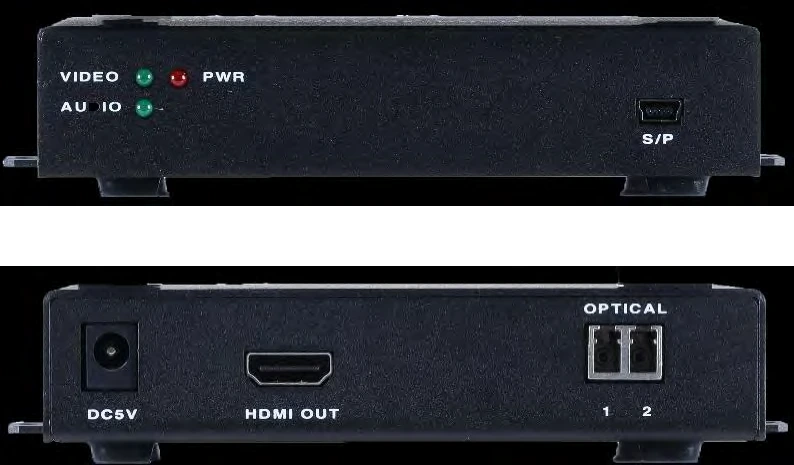
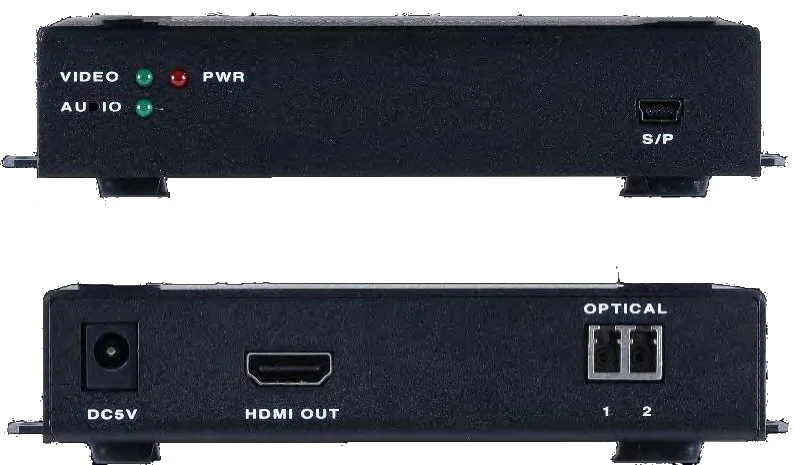
OBHD-2C 단자 지도 사진 3장 검은 배경을 흰색으로, 0.102.0
사진 가장자리에서 이어진 순수 검정(밝기 10 이하)만 흰색으로 채우고 1px 가장자리를
섞어 잔상을 없앰. 제품 몸체와 사진 크기는 그대로라 단자 지도 좌표 변동 없음.
CHANGELOG의 0.101.0 절 위치도 순서대로 옮김.

Claude-Session: https://claude.ai/code/session_01V3dms2CC6NHWtyRSKKrJnV

Changed region(s): [[0.0, 0.0, 1.0, 0.4516], [0.0, 0.572, 1.0, 1.0]]

diff --git a/index.html b/index.html
@@ -1,7 +1,7 @@
 <!doctype html>
 <html lang="ko"><head><meta charset="utf-8"><meta name="viewport" content="width=device-width,initial-scale=1"><title>RTCOM 매트릭스 구성기</title><meta name="description" content="RTCOM XDM, SPX, VDM 매트릭스 카드 슬롯 구성기와 알티컴 공개 제품정보"></head><body><div id="rtcom-design" aria-label="RTCOM 매트릭스 구성기">
   <link rel="stylesheet" href="src/styles.css">
-  <header class="rt-top"><a class="rt-brand-lockup" href="./"><span class="rt-brand-mark" aria-hidden="true">▦</span><span><span class="rt-brand">RT<span>COM</span> Matrix Configurator</span><span class="rt-brand-sub">XDM · SPX · VDM CARD SLOT DESIGN</span></span></a><nav class="rt-view-tabs" aria-label="화면 전환"><a data-view-tab="configurator" href="#matrix-configurator" aria-current="page">매트릭스 구성기</a><a data-view-tab="products" href="#products">알티컴 제품정보</a></nav><div class="rt-top-links"><a class="rt-portal-link" href="https://seoulav.github.io/AV-Portal/" target="_blank" rel="noopener">AV Portal에서 제품 찾기 <span aria-hidden="true">↗</span><span class="rt-visually-hidden">(새 창)</span></a><div class="rt-meta"><b>AV 시스템 설계 도구</b><br>CATALOG BASED · 0.101</div></div></header>
+  <header class="rt-top"><a class="rt-brand-lockup" href="./"><span class="rt-brand-mark" aria-hidden="true">▦</span><span><span class="rt-brand">RT<span>COM</span> Matrix Configurator</span><span class="rt-brand-sub">XDM · SPX · VDM CARD SLOT DESIGN</span></span></a><nav class="rt-view-tabs" aria-label="화면 전환"><a data-view-tab="configurator" href="#matrix-configurator" aria-current="page">매트릭스 구성기</a><a data-view-tab="products" href="#products">알티컴 제품정보</a></nav><div class="rt-top-links"><a class="rt-portal-link" href="https://seoulav.github.io/AV-Portal/" target="_blank" rel="noopener">AV Portal에서 제품 찾기 <span aria-hidden="true">↗</span><span class="rt-visually-hidden">(새 창)</span></a><div class="rt-meta"><b>AV 시스템 설계 도구</b><br>CATALOG BASED · 0.102</div></div></header>
   <section class="rt-configurator-view" aria-label="매트릭스 구성기">
     <div id="matrix-configurator" class="rt-configurator-anchor"><h1 class="rt-visually-hidden" tabindex="-1">매트릭스 구성기 — 프레임을 선택하고 실제 슬롯 위치에 입력·출력 카드를 장착해 구성합니다.</h1></div>
     <div class="rt-workspace"><div class="rt-tools"><button class="rt-button" data-tool="undo" disabled>↶ 실행 취소</button><button class="rt-button" data-tool="redo" disabled>↷ 다시 실행</button><button class="rt-button" data-tool="backup">JSON 백업</button><button class="rt-button" data-tool="import">불러오기</button><button class="rt-button" data-tool="reset">새 구성</button></div><p id="save-status" role="status" aria-live="polite">이 브라우저에 자동 저장됩니다.</p><input id="import-file" type="file" accept=".json,application/json" hidden></div><nav class="rt-nav" aria-label="구성 단계"></nav>

diff --git a/CLAUDE.md b/CLAUDE.md
@@ -50,7 +50,7 @@
 
 - 현재 화면 버전은 `index.html`의 우측 상단 표기와 `README.md`에 함께 기록합니다.
 - 원본 `main`에 기능 묶음을 병합할 때 마이너 버전을 올리고, 같은 커밋에서 `CHANGELOG.md`를 갱신합니다.
-- 구성기 단일 화면 전환은 `0.7.0`, Analog Way 방식 화면 개편은 `0.8.0`, 전송기 자동 연동은 `0.9.0`, HDMI 카드 PSE 쌍 연장은 `0.10.0`, SPX 매뉴얼 사진 슬롯은 `0.11.0`, VDM-256X 추가는 `0.12.0`, VDM 매뉴얼 후면 도면 슬롯은 `0.13.0`, 휴대폰 슬롯 겹침·뒤로가기 수정은 `0.14.0`, VDM 전면 도면은 `0.15.0`, 사진 슬롯 판넬 잘림 수정은 `0.16.0`, 장착 슬롯 번호표 숨김·구성 요약 카드 확대는 `0.17.0`, XDM 판넬 손나사 잘림 수정·VDM 전송기 연동·로고 홈 이동 확인은 `0.18.0`, 알티컴 공개 제품정보(29종) 재게시는 `0.19.0`, 제품정보 상세 표기를 에이앤미디어(antez.co.kr) 방식으로 정리한 것은 `0.20.0`, 데이터 기반 연결 다이어그램 추가는 `0.21.0`, 제품 사양 표를 구분·사양 2단으로 정리한 것은 `0.22.0`, 휴대폰 가로 스크롤(긴 출처 경로) 수정은 `0.23.0`, HD-14U·HD-18U 모델명 정정과 VDM CT102-U·FT102-U 계열 제외는 `0.24.0`, 제조사 카탈로그 원본 연결 다이어그램 적용은 `0.25.0`, 제품 사양 표 디자인(분류 색 점) 다듬기는 `0.26.0`, 새 카탈로그로 나머지 25종 재검증·XDM-CTR100 조합 다이어그램은 `0.27.0`, 연결 다이어그램 가로 스크롤 안내(그러데이션 표시)와 XDM-CTR100 케이블별 최대 전송거리(CI6522 80m) 추가는 `0.28.0`, VDM HOS4-U·HOS4S-UW 카드 설명을 스위칭 방식(일반·심리스)으로 정리하고 XDM-288을 구성기에서 삭제한 것은 `0.29.0`, XDM-CTR100 연결 다이어그램 조합 1을 매트릭스 카드 직결 배선으로 바로잡고 제조사 원본 다이어그램에 출처 캡션·표기 다름 경고를 추가하고 6개 제품과 SPX 다이어그램을 다시 잘라낸 것은 `0.30.0`, VDM 전송기 4종(CT101-U/CR101-U·CT103-U-H/CR103-U·FT101-U/FR101-U·FT103-U-H/FR103-U)에 RS-232 단자 행을 추가하고 이 4종과 CT104-U/CR104-U를 46쪽판과 재대조하고 27종 전체의 카탈로그 쪽 표기를 46쪽판 기준으로 통일한 것은 `0.31.0`, `docs/audit/PRODUCT_DIAGRAM_REVIEW_2026-09-27.md` §6 판단표대로 13개 제품의 검토 필요 항목을 정리해 REVIEW REQUIRED 배지를 없앤 것은 `0.32.0`, 제품정보 화면을 사용자 LED 구성기 계승 글래스 디자인으로 개편한 것(`docs/handoff/PRODUCT_GLASS_REDESIGN_SPEC.md` 6-A: 기반·HD-210U·XDM·VDM·SPX)은 `0.33.0`, 나머지 23종(분배기·일체형·전송기·케이블)에 lead·subtitle·portMap을 채우고 분배기·일체형 신호 흐름을 승인 시안 방식으로 바꾸고 QMS 화면 구성 모드(videoModes)를 추가한 것(6-B)은 `0.34.0`, HD-13U 상세에 전면 EDID 로터리 스위치 위치 표시와 EDID 코드표(edidSwitch, 사용자 제공 매뉴얼 근거)를 추가한 것은 `0.35.0`, HD-104U·HD-108U 모델명 표기를 0.24.0 정정 이전으로 되돌리고(사용자 확인 2026-09-27: 카탈로그 표기는 HD-104U·HD-108U이며 실크만 14U·18U로 변경 예정) HD-210U 전면 설정 스위치(딥 스위치·EDID 로터리) 추가와 신호 흐름 매트릭스 판정 복원을 함께 묶은 것은 `0.36.0`, 매트릭스 구성기 화면을 Analog Way 구조 + LED 글래스 스킨으로 개편하고 블랭크 커버(`placements`의 예약값 `"BLANK"`)로 슬롯 구성을 완성하는 기능을 추가한 것(`docs/handoff/CONFIGURATOR_AW_GLASS_SPEC.md`, 사용자 결정 2026-09-27)은 `0.37.0`, 0.37.0에서 시안과 다르게 남겨 둔 04 전송기 화면을 사용자 검토 후 좌우 분할 구조(01·02와 같은 틀)로 다시 지은 것(`docs/implementation/CONFIGURATOR_AW_GLASS.md` "04 전송기(편차 — 0.38.0에서 해소)")은 `0.38.0`, 제품 상세 "01 한눈에 보기" 위에 큰 사진 띠와 누르면 확대되는 돋보기(라이트박스)를 추가하고 화면에 보이는 제품 사양·주요 기능의 "up to" 표기를 "최대"로 통일하고 제품정보 "확인 사항" 118건을 2건으로 정리(HD-210U 크기 355mm 정정, `docs/audit/PRODUCT_ISSUES_ARCHIVE_2026-09-27.md`)한 것은 `0.39.0`, HD-13U "05 주요 기능"에 오디오 병합(믹스)·추출(디먹스) 동시 사용 안내(매뉴얼 7쪽 근거)를 추가한 것은 `0.40.0`, 분배기(HD-13U·HD-104U·HD-108U·HD-210U) EDID 로터리 코드표에서 자주 쓰는 1·7번을 강조하고 "02 신호 흐름"에 오디오 병합·추출(AUDIO OUT·"추출" 표시)을 추가한 것은 `0.41.0`, 사진 없이 입출력 표 카드로만 보이던 7종(HD-D102U·XDM-CTR100·전송기 5종)의 단자 지도를 HD-13U처럼 실제 제품 사진 기준으로 바꾸고 `portMap`이 송신기·수신기 사진 여러 장을 받게 한 것은 `0.42.0`, HDS-21U·HDS-42MU에 EDID 로터리(edidSwitch)를 추가하고 오디오 병합 설명을 "HDMI OUTPUT에 실리는 오디오" 기준으로 정정하고 분배기·선택기 필터를 HDMI 출력 개수 순으로 정렬하고 XDM-CTR100 "02 신호 흐름" 케이블 최대 전송거리 표기를 다이어그램 하단 한쪽으로 모은 것은 `0.43.0`, 분배기·선택기 필터 정렬을 분배기(Splitter)가 먼저 나오고 셀렉터(Switcher)가 나중에 나오도록(같은 종류 안에서는 HDMI 출력 개수 순) 바꾼 것은 `0.44.0`, 사용자 제공 매뉴얼 3권으로 벽부형 XDM-CT103·CT103-U-H/CR103-U·FT103-U-H/FR103-U의 단자 지도·사양·EDID 표를 보완하고 단자 지도에 세로 괄호·표시 폭·안내 줄을 추가한 것은 `0.45.0`, XDM-CTR100 PSE 제품 안내서와 XDM-CTR100 매뉴얼 Ver.1.4로 CTR100 단자 역할(HDMI IN·OUT, 5핀 오디오 출력, 상태 LED)·딥 스위치 설정·PSE 크기·전원을 보완한 것은 `0.46.0`, 옛 PR #22에만 있던 사용자 결정(XDM-CTR100과 XDM-CTR100 PSE를 별도 제품으로 분리해 28종, QMS-88UX 쿼드 뷰 출력 9·10번 사용법, 모델명 줄바꿈 방지)을 현재 main 기준으로 다시 옮기고 HD-13U 오디오 병합·추출을 선택 방식으로 정정해 07 오디오 설정 카드를 추가하고 모든 제품의 단자 지도 번호를 HDMI 입력 → 출력 → 오디오 → … → 전원(마지막) 순으로 통일한 것은 `0.47.0`, QMS-88UX 출력 9·10번 멀티뷰의 12가지 레이아웃·입력 그룹·출력 옵션을 사용자 제공 매뉴얼 20~23쪽 근거로 "주요 기능"에 적은 것은 `0.48.0`, HDS-21U·HDS-42MU 오디오 병합·추출을 딥 스위치 1번 선택 방식으로 정정하고 07 오디오 설정 카드를 추가하고 사용자 제공 매뉴얼 Ver.1.0으로 Priority·분배 기능 딥 스위치를 보완하고 제품 사진 팝업을 사용자 LED 계산기 "05 프로세서" 방식(사진 탭·원형 돋보기)으로 바꾼 것은 `0.49.0`, QMS-88UX "02 신호 흐름"에서 멀티뷰 출력 9·10번을 매트릭스 출력과 분리된 별도 갈래(패널·캡션)로 다시 그리고 "05 주요 기능" 멀티뷰 항목을 요약하고 오디오 출력 2개(QD1·QD2)가 선택 가능한 출력임을 반영한 것은 `0.50.0`, QMS-88UX "04 제품 사양"의 조건 칸(부설)을 모두 비우고 LAN(Telnet & Web Browser) 표기를 사양·기능·개요·단자 지도에서 모두 뺀 것은 `0.51.0`, HDS-42MU 크기를 사용자 결정에 따라 매뉴얼 값 232×65×30mm로 바꾸고 제품 상세의 "자료 출처·검토 기록"을 "제조사 자료"로 이름을 바꿔 화면의 출처 표시를 뺀 것은 `0.52.0`, QMS-88UX 오디오 QD1·QD2 설명 정리·"02 신호 흐름" 오디오 추출 점선과 멀티뷰 8입력분할 표현 정리·입출력 단자 표 정렬 통일(TX→구분 없음→RX, 영상→오디오→전송→제어, 입력→출력→양방향)·"제조사 자료"에서 표기 다름·참고 사항도 추가로 뺀 것과 조건 칸의 출처 문구를 지우고 "05 주요 기능"을 한 줄 요약으로 줄인 것(상세는 06·07 카드·사양·단자 지도로 이동)은 `0.53.0`, XDM-CTR100·CTR100 PSE "04 제품 사양"의 딥 스위치 행을 다시 삭제(딥 스위치는 05 주요 기능에서만 안내)하고 전 제품 "05 주요 기능"을 추가로 압축하고 매트릭스 COS/CIS/FIS/FOS 카드와 짝인 전송기 3종(XDM-CTR100·CTR100 PSE·FT101/FR101)에 RS-232+ 패스스루(AMX 등 통합 제어 신호를 매트릭스·전송기 너머로 전달) 안내를 추가하고 "02 신호 흐름"의 케이블 최대 전송거리 표기를 범례 "출력" 항목 오른쪽으로 옮긴 것은 `0.54.0`, 구성기 확인 창을 사이트 글래스 스타일 대화상자로 바꾸고 카드 팝업에 수량 채우기와 같은 방향 슬롯 이동(끌어 옮기기·팝업 이동)을 추가하고 XDM 세로 슬롯 카드를 180도 돌리고 2U 이상만 정면·후면 버튼(그보다 작으면 정면 사진과 포트 연결면을 함께 표시)으로 하고 구성기 작업 단계 표기를 한글로 바꾸고 Delete 키 카드 빼기와 XDM RS-232+(CIS·COS·FIS·FOS 카드와 짝 전송기) 표기를 더한 것은 `0.55.0`, 전 제품 "05 주요 기능" 카탈로그 어투 통일("~ 지원")·"01 한눈에 보기" 위 사진 띠 삭제·"02 신호 흐름"과 "03 단자 지도" 순서 교체 및 영문 표기(Signal Flow·Port Map)·화면 구성 모드 등 06 카드를 05 옆으로 배치·QMS-88UX 06 화면 구성 모드 레이아웃 12종 클릭 미리보기 추가·HDS-21U·HDS-42MU 단자 지도를 정면·후면 선택 버튼 없이 위아래 합성 사진 한 장(번호 1~7, EDID 로터리 6번·전원 7번)으로 바꾼 것은 `0.56.0`, 05 옆으로 옮긴 06 카드가 휴대폰에서 01보다 먼저 뜨던 순서 버그를 고치고(rt-pg-col-mobile-6 클래스 추가) 15개 제품 "05 주요 기능"의 "~할 수 있다." 표현 24곳을 명사형으로 정리한 것은 `0.57.0`, HDS-21U·HDS-42MU 단자 지도에 MODE 딥 스위치 번호(7번)를 추가하고 07 오디오 설정 카드를 딥 스위치 그림(번호별 OFF·ON) 카드인 07 딥 스위치 설정으로 바꾸고(1번 오디오 병합·추출, 2번 Priority, 42MU만 3번 분배) 04 제품 사양의 딥 스위치 행과 05 주요 기능의 긴 설명을 이 카드로 옮기고 매트릭스 제품(QMS-44UX·QMS-88UX·HDS-42MU) "03 Signal Flow"를 입력이 한 점으로 모이는 모양 대신 크로스포인트(출력마다 입력 선택 예시)로 다시 그리고 HDS-42MU 정면 사진의 잘못 인쇄된 실크(MODE·EDID)를 사진 안에서 서로 바꾼 것은 `0.58.0`, EDID 로터리 태그 잘림·06 EDID 카드 배치·긴 코드표 좌우 분할을 고치고 EDID 설정 카드에 기본값·자주 쓰는 코드를 파란 16단 로터리 그림(화살표가 코드를 가리킴)으로 보여주고 HDS-21U·HDS-42MU(3·9번)·FT103-U-H/FR103-U(3·6번)에 자주 쓰는 코드 강조를 더하고 EDID 코드표 세로 크기를 줄인 것은 `0.59.0`, 04 제품 사양 표 줄 간격을 약 15% 줄이고 03 Signal Flow에서 AUDIO OUT "추출" 표시가 잘리던 그림 너비 계산을 고친 것은 `0.60.0`, HD-13U 07 오디오 설정을 06 EDID 다음 전체 폭으로 옮겨 잘림·번호 뒤집힘을 고치고 EDID 대표 설정과 같은 칸 4개(MODE 로터리 0번 → SET 누름 → OUT 1 LED 깜빡임·깜빡이지 않음)를 넣고 HD-210U에 매뉴얼 Ver.1.2 근거 07 딥 스위치 설정 카드(1번 오디오 병합, 2번 DDC)를 추가한 것은 `0.61.0`, 딥 스위치 카드가 있는 HD-210U·HDS-21U·HDS-42MU의 05 주요 기능에서 스위치 번호 참조를 지우고 HD-210U(5줄)·HD-13U(3줄) 05 주요 기능을 기능 이름만 남겨 정리하고 HDS-21U·HDS-42MU 딥 스위치 칸을 ON → OFF 순서로 바꾼 것은 `0.62.0`, QMS-44UX·QMS-88UX "06 화면 구성 모드" 카드가 05 옆 좁은 칸에 들어가면서 모드 카드 설명·레이아웃 칩이 카드 밖으로 넘치던 문제를 edidSwitch와 같은 기준(항상 전체 폭 아래)으로 고친 것은 `0.63.0`, SPX-TX/RX 전송기를 29번째 제품으로 추가(매뉴얼 Ver.2.0: 사양·단자 지도·딥 스위치 조합)하고 XDM-FT101/FR101에 매뉴얼 Ver.1.3 근거 EDID·오디오 로터리 카드(전체 8칸 그림)를 넣고 SPX 안내·범례의 HDBaseT 표기를 CATx로 바로잡고 OBUX-1C에 매뉴얼 Ver.2.2 근거 Tx Mode 딥 스위치 카드(1번 오디오, 2·3·4번 EDID 조합)를 넣고 전 제품 05 주요 기능의 "~한다/~다." 문장을 "~ 지원"·명사형으로 통일한 것은 `0.64.0`, OBHD-2C에 매뉴얼 KV01 근거 06 EDID 설정(MODE 로터리 0~D 전체 14칸 그림·코드표)을 추가하고 XDM-CT103/CR103 04 제품 사양의 전원(어댑터) 중복 행(CT103·CR103 각각 있던 동일 값)을 공통 행 하나로 합친 것은 `0.65.0`, XDM-CTR100·XDM-CTR100 PSE에 매뉴얼 Ver.1.4 근거 06 딥 스위치 설정(1·2번 TX/RX 모드 조합, 3번 전송 거리)을 추가하고 두 제품이 별도 페이지로 나뉜 뒤에도 남아 있던 04 제품 사양의 "공통"·자기 모델명 반복 표기를 정리하고 04 사양 "지원 케이블"을 "권장 케이블"로 바꾸고 분배기 4종(HD-13U·HD-104U·HD-108U·HD-210U) 단자 지도를 앞면·뒷면 합성 사진 한 장으로 바꿔 정면 로터리(·SET·MODE)에도 번호를 붙인 것은 `0.66.0`, QMS-88UX 06 화면 구성 모드 QUAD 레이아웃 목록에 매뉴얼 22~23쪽 Output Option 2·3 근거로 "8분할(비율무시)"을 13번째 항목으로 추가하고 분배기 4종(HD-13U·HD-104U·HD-108U·HD-210U) 05 주요 기능에 다단 증폭(캐스케이드 연결) 최대 3단 지원을 추가한 것은 `0.67.0`, XDM-FT101/FR101 단자 지도에 정면 MODE 로터리·S/P 번호를 추가하고 HD-D102U 05 주요 기능을 명사형으로 전면 재작성하고 HDS-21U·HDS-42MU "Audio Extraction"과 HD-210U EDID "Nothing" 표기를 통일하고 HDS-21U 딥 스위치 3번(분배)이 매뉴얼에 없는 기능이었음을 사용자 제공 매뉴얼로 확인해 삭제한 것은 `0.68.0`, HDS-21U·HDS-42MU 06 EDID 설정 안내 문장에서 "10번=A, 11번=B"처럼 10진수를 다시 설명하던 괄호를 완전히 지운 것은 `0.69.0`, 구성기 "섀시"를 "프레임"으로 통일하고 카드 팝업에 수량·순서대로 장착 버튼을 넣고 02 프레임 선택에 "함께 보면 좋은 제품"을 추가하고 빈 슬롯 공패널색을 통일하고 OBHD-2C EDID 로터리 번호를 매뉴얼 Ver.2.1 기준으로 정정하고 HD-D102U "스마트 EDID" 문구를 알기 쉽게 풀어 쓰고 HD-13U·XDM-CTR100 PSE "인증: KC 인증" 행을 삭제하고 HD-D102U 04 사양표를 HD-13U와 같은 구성으로 정리한 것은 `0.70.0`, OBHD-2C 04 제품 사양의 크기·무게·HDMI 규격을 사용자 결정에 따라 매뉴얼 Ver.2.1 값(128×89×25mm·0.36kg·HDMI 1.3)으로 바꾼 것은 `0.71.0`, OBHD-2C·OBUX-1C 04 제품 사양의 입력단자·출력단자(HDMI(female) 등 표기) 행을 삭제하고 전 제품(16종)의 mm/kg 옆 인치·lbs 병기를 지운 것은 `0.72.0`, XDM-PSU 전원 장치를 반영해 BOM의 임시 "전원 공급 장비"를 XDM-PSU(16칸당 1대)·XDM-POH(CTR100 Tx 1대당 1개)·XDM-PHX(COS100 1장당 1개)로 나누고 XDM-PSU를 30번째 제품으로 추가하고, HDS-21U·OBUX-1C 송신기·수신기 고해상도 실물 사진을 반영하고, CT103-U-H/CR103-U 04 제품 사양을 요약 형태로 정리한 것은 `0.73.0`, QMS-44UX 전면·후면 사진을 사용자가 직접 촬영한 고화질 사진으로 바꾸고 03 단자 지도 좌표를 재보정하고 새 사진에서 확인된 DOWNLOAD(Mini-USB) 포트를 추가한 것은 `0.74.0`, HD-108U 전면·후면 사진을 제조사에서 입수한 고화질 사진으로 바꾸고 03 단자 지도와 06 EDID 설정 로터리 스위치 좌표를 재보정한 것은 `0.75.0`, HDS-42MU 전면·후면 사진을 고화질로 바꾸고 단자 지도·EDID 좌표를 재보정한 것은 `0.76.0`, HD-13U·SPX-M810 전면·후면 사진을 고해상도로 바꾸고 HD-13U 단자 지도·EDID 좌표와 SPX-M810 구성기 카드 슬롯 좌표를 재측정한 것은 `0.77.0`, 사용자가 제공한 HD-104U 고해상도 전면·후면 사진(긴 변 약 2000px)으로 기존 저해상도 이미지를 교체하고 단자 지도·EDID 로터리 스위치 좌표를 새 사진 기준으로 다시 측정한 것은 `0.78.0`, 제품 상세에 등록된 제조사 카탈로그·매뉴얼 PDF만 "제품 목록" 옆 버튼(새 탭 보기·내려받기)으로 보여 주는 구조를 추가한 것은 `0.79.0`, 매트릭스 카드 상세 정보 버튼과 XDM·SPX·VDM 카드 26종 사양을 등록한 것은 `0.80.0`, 로컬 작업 환경(`DEVICE_WORKFLOW.md`, `.gitattributes`, `.claude/settings.json`)과 `input_doc` 자료 자동 분류(`.claude/skills/input-doc`, `scripts/input_doc.py`)를 추가한 것은 `0.81.0`, 제조사 자료 입출력 단자 표에서 방향("입력"·"출력"·"입출력")·수량(숫자) 칸이 좁은 화면에서 줄바꿈되던 문제를 30개 제품 전수 조사로 찾아 고친 것은 `0.82.0`, 제목에 송신기·수신기가 들어간 제품 10종의 라벨을 색으로 구분한 것은 `0.83.0`, input_doc 첫 정리(매뉴얼 20권·사양서 1장)로 VDM HOS4-U 카드 사양을 등록하고 CIS4-U·COS4-U·QOS4S-U를 매뉴얼 KV07 값으로 보완하고 input_doc 반영 장부(`docs/evidence/input-doc-ledger.json`)와 파일별 반영 표시(`input_doc/STATUS.md`)를 추가하고 검증된 PR의 병합·배포를 Claude가 이어서 하도록 규칙을 바꾼 것은 `0.84.0`, 카탈로그·매뉴얼 충돌 정리(`docs/audit/CATALOG_MANUAL_CONFLICTS_2026-09-28.md`) 결정대로 VDM -U 카드에 매뉴얼 해상도 행·SOS4 오디오 포트를 더하고 QMS-88UX 멀티뷰에 8분할(16:9 비율)을 추가한 것은 `0.85.0`, 카탈로그·매뉴얼 충돌 항목을 사용자 결정("새로준 자료 기준으로")에 따라 매뉴얼 값으로 통일한 것(HD-104U 전원 1A, XDM 전송기 3840x2160, VDM 광 카드 10km·-U 카드 4096×2160·HOS4S-UW 1920×1080)은 `0.86.0`, RT컴 제공 고해상도 실물 사진으로 XDM-CTR100·XDM-FT101·XDM-FR101·XDM-CT103 제품 사진·목록 카드·구성기 04 전송기 썸네일을 교체하고 CTR100·FT101·CT103 단자 지도를 새 사진으로 다시 합성하고 XDM-FR101 수신기 뒷면 단자 지도를 추가한 것은 `0.87.0`, 사용자 결정("1번")으로 input_doc 매뉴얼 17개를 공개 폴더에 올려 16개 제품 상세에 매뉴얼 PDF 버튼을 켠 것은 `0.88.0`, 사용자 확인("ctr100과 pse는 단자는 동일해")에 따라 XDM-CTR100·XDM-CTR100 PSE 단자 지도를 같은 합성 사진(앞면 PSE 제품 안내서 사진 + 뒷면 RT컴 CTR100 사진)으로 바꾼 것은 `0.89.0`, QMS-88UX 06 화면 구성 모드의 DUAL 카드("듀얼 모드" 한 마디뿐)를 매뉴얼 KV.04 20~21쪽 근거로 출력 9·10번 멀티뷰 설정의 2분할(PBP)·PIP 레이아웃 3종으로 채운 것은 `0.90.0`, XDM-CTR100 PSE 정면 사진을 사용자가 재확인("1번 맞아"·"적용시켜줘")한 원본 PNG에서 정확한 픽셀 경계로 다시 잘라 646×396으로 다시 저장한 것은 `0.91.0`, SPX-TX/SPX-RX 단자 지도 사진의 검은 배경을 흰색으로 바꾸고(사용자 요청) 전송기 6개 제품 사양의 ft(피트) 표기를 일괄 삭제한 것은 `0.92.0`, 전송기 9종 04 제품 사양 조건 칸의 "모델A·모델B 공통" 표기 55곳을 일괄 삭제하고 XDM-PSU에 "03 Signal Flow"(POH 입력 경로·PHX 출력 경로, 주황 전원 선) 그림을 추가한 것은 `0.93.0`, XDM-CTR100·XDM-CTR100 PSE 04 제품 사양의 최대 전송거리 3행을 1행으로 합치고 권장 케이블 행을 지우고 PSE 목록 썸네일을 정면 사진으로 바꾼 것은 `0.94.0`, 전체 카탈로그 46쪽판을 공용 파일(`rtcom-catalog-2026.pdf`) 하나로 공개해 29개 제품 상세의 카탈로그 PDF 버튼이 제품 쪽(`#page=N`)에서 열리고 제품 목록에 전체 카탈로그 버튼을 둔 것(사용자 결정 2026-09-28 "전체 카탈로그 공개해도 돼")은 `0.95.0`, QMS-88UX 06 화면 구성 모드의 QUAD·DUAL 설명 문장을 짧게 줄이고 매뉴얼 쪽 번호를 화면에 안 보이는 `page` 항목으로 옮기고 QMS-44UX QUAD 설명도 두 줄로 나눠 줄인 것(사용자 요청 "QMS-44, 88 모두 글이 너무 많아 좀 더 요약해줘")은 `0.96.0`, 전체 카탈로그 46쪽판에서 제품마다 해당 쪽만 뽑은 제품별 카탈로그 PDF 29개(`<제품id>-catalog.pdf`, XDM은 전송기 쪽을 뺀 4~9쪽, SPX-TX/RX는 16쪽)를 만들어 제품 상세 카탈로그 버튼에 연결한 것(사용자 결정 2026-09-28 "제품별로 잘라 공개")은 `0.97.0`, XDM-PSU "03 Signal Flow"를 제조사 연결도처럼 매트릭스 프레임(CIS100·COS100)·XDM-PSU(POH·PHX)·XDM-CTR100 Tx/Rx 장비 그림으로 다시 그리고 케이블을 따라 신호·전원이 흐르는 애니메이션을 넣은 것(사용자 요청 2026-09-28)은 `0.98.0`, 그 그림의 XDM-COS100을 포트마다 RJ45+피닉스 5핀으로 고쳐 PHX 2핀 전원선이 1번 포트 피닉스 단자에 꽂히게 하고(사용자 확인 "COS PHNIX픽에 전원연결") XDM-PSU Signal Flow에만 "크게 보기" 확대 창(100~300%)을 넣은 것은 `0.99.0`, QMS-88UX "8분할(16:9 비율)" 미리보기가 매뉴얼(KV.04 23쪽)처럼 위·아래 여백을 짙은 막대로 보여주게 고친 것(사용자 지적 "8분할시 비율유지는 안되는거 같은")은 `0.100.0`으로 기록했습니다. 다음 기능 묶음은 `0.101.0`을 목표로 하며, 실제 병합 전에는 검증된 canonical main commit을 확인합니다.
+- 구성기 단일 화면 전환은 `0.7.0`, Analog Way 방식 화면 개편은 `0.8.0`, 전송기 자동 연동은 `0.9.0`, HDMI 카드 PSE 쌍 연장은 `0.10.0`, SPX 매뉴얼 사진 슬롯은 `0.11.0`, VDM-256X 추가는 `0.12.0`, VDM 매뉴얼 후면 도면 슬롯은 `0.13.0`, 휴대폰 슬롯 겹침·뒤로가기 수정은 `0.14.0`, VDM 전면 도면은 `0.15.0`, 사진 슬롯 판넬 잘림 수정은 `0.16.0`, 장착 슬롯 번호표 숨김·구성 요약 카드 확대는 `0.17.0`, XDM 판넬 손나사 잘림 수정·VDM 전송기 연동·로고 홈 이동 확인은 `0.18.0`, 알티컴 공개 제품정보(29종) 재게시는 `0.19.0`, 제품정보 상세 표기를 에이앤미디어(antez.co.kr) 방식으로 정리한 것은 `0.20.0`, 데이터 기반 연결 다이어그램 추가는 `0.21.0`, 제품 사양 표를 구분·사양 2단으로 정리한 것은 `0.22.0`, 휴대폰 가로 스크롤(긴 출처 경로) 수정은 `0.23.0`, HD-14U·HD-18U 모델명 정정과 VDM CT102-U·FT102-U 계열 제외는 `0.24.0`, 제조사 카탈로그 원본 연결 다이어그램 적용은 `0.25.0`, 제품 사양 표 디자인(분류 색 점) 다듬기는 `0.26.0`, 새 카탈로그로 나머지 25종 재검증·XDM-CTR100 조합 다이어그램은 `0.27.0`, 연결 다이어그램 가로 스크롤 안내(그러데이션 표시)와 XDM-CTR100 케이블별 최대 전송거리(CI6522 80m) 추가는 `0.28.0`, VDM HOS4-U·HOS4S-UW 카드 설명을 스위칭 방식(일반·심리스)으로 정리하고 XDM-288을 구성기에서 삭제한 것은 `0.29.0`, XDM-CTR100 연결 다이어그램 조합 1을 매트릭스 카드 직결 배선으로 바로잡고 제조사 원본 다이어그램에 출처 캡션·표기 다름 경고를 추가하고 6개 제품과 SPX 다이어그램을 다시 잘라낸 것은 `0.30.0`, VDM 전송기 4종(CT101-U/CR101-U·CT103-U-H/CR103-U·FT101-U/FR101-U·FT103-U-H/FR103-U)에 RS-232 단자 행을 추가하고 이 4종과 CT104-U/CR104-U를 46쪽판과 재대조하고 27종 전체의 카탈로그 쪽 표기를 46쪽판 기준으로 통일한 것은 `0.31.0`, `docs/audit/PRODUCT_DIAGRAM_REVIEW_2026-09-27.md` §6 판단표대로 13개 제품의 검토 필요 항목을 정리해 REVIEW REQUIRED 배지를 없앤 것은 `0.32.0`, 제품정보 화면을 사용자 LED 구성기 계승 글래스 디자인으로 개편한 것(`docs/handoff/PRODUCT_GLASS_REDESIGN_SPEC.md` 6-A: 기반·HD-210U·XDM·VDM·SPX)은 `0.33.0`, 나머지 23종(분배기·일체형·전송기·케이블)에 lead·subtitle·portMap을 채우고 분배기·일체형 신호 흐름을 승인 시안 방식으로 바꾸고 QMS 화면 구성 모드(videoModes)를 추가한 것(6-B)은 `0.34.0`, HD-13U 상세에 전면 EDID 로터리 스위치 위치 표시와 EDID 코드표(edidSwitch, 사용자 제공 매뉴얼 근거)를 추가한 것은 `0.35.0`, HD-104U·HD-108U 모델명 표기를 0.24.0 정정 이전으로 되돌리고(사용자 확인 2026-09-27: 카탈로그 표기는 HD-104U·HD-108U이며 실크만 14U·18U로 변경 예정) HD-210U 전면 설정 스위치(딥 스위치·EDID 로터리) 추가와 신호 흐름 매트릭스 판정 복원을 함께 묶은 것은 `0.36.0`, 매트릭스 구성기 화면을 Analog Way 구조 + LED 글래스 스킨으로 개편하고 블랭크 커버(`placements`의 예약값 `"BLANK"`)로 슬롯 구성을 완성하는 기능을 추가한 것(`docs/handoff/CONFIGURATOR_AW_GLASS_SPEC.md`, 사용자 결정 2026-09-27)은 `0.37.0`, 0.37.0에서 시안과 다르게 남겨 둔 04 전송기 화면을 사용자 검토 후 좌우 분할 구조(01·02와 같은 틀)로 다시 지은 것(`docs/implementation/CONFIGURATOR_AW_GLASS.md` "04 전송기(편차 — 0.38.0에서 해소)")은 `0.38.0`, 제품 상세 "01 한눈에 보기" 위에 큰 사진 띠와 누르면 확대되는 돋보기(라이트박스)를 추가하고 화면에 보이는 제품 사양·주요 기능의 "up to" 표기를 "최대"로 통일하고 제품정보 "확인 사항" 118건을 2건으로 정리(HD-210U 크기 355mm 정정, `docs/audit/PRODUCT_ISSUES_ARCHIVE_2026-09-27.md`)한 것은 `0.39.0`, HD-13U "05 주요 기능"에 오디오 병합(믹스)·추출(디먹스) 동시 사용 안내(매뉴얼 7쪽 근거)를 추가한 것은 `0.40.0`, 분배기(HD-13U·HD-104U·HD-108U·HD-210U) EDID 로터리 코드표에서 자주 쓰는 1·7번을 강조하고 "02 신호 흐름"에 오디오 병합·추출(AUDIO OUT·"추출" 표시)을 추가한 것은 `0.41.0`, 사진 없이 입출력 표 카드로만 보이던 7종(HD-D102U·XDM-CTR100·전송기 5종)의 단자 지도를 HD-13U처럼 실제 제품 사진 기준으로 바꾸고 `portMap`이 송신기·수신기 사진 여러 장을 받게 한 것은 `0.42.0`, HDS-21U·HDS-42MU에 EDID 로터리(edidSwitch)를 추가하고 오디오 병합 설명을 "HDMI OUTPUT에 실리는 오디오" 기준으로 정정하고 분배기·선택기 필터를 HDMI 출력 개수 순으로 정렬하고 XDM-CTR100 "02 신호 흐름" 케이블 최대 전송거리 표기를 다이어그램 하단 한쪽으로 모은 것은 `0.43.0`, 분배기·선택기 필터 정렬을 분배기(Splitter)가 먼저 나오고 셀렉터(Switcher)가 나중에 나오도록(같은 종류 안에서는 HDMI 출력 개수 순) 바꾼 것은 `0.44.0`, 사용자 제공 매뉴얼 3권으로 벽부형 XDM-CT103·CT103-U-H/CR103-U·FT103-U-H/FR103-U의 단자 지도·사양·EDID 표를 보완하고 단자 지도에 세로 괄호·표시 폭·안내 줄을 추가한 것은 `0.45.0`, XDM-CTR100 PSE 제품 안내서와 XDM-CTR100 매뉴얼 Ver.1.4로 CTR100 단자 역할(HDMI IN·OUT, 5핀 오디오 출력, 상태 LED)·딥 스위치 설정·PSE 크기·전원을 보완한 것은 `0.46.0`, 옛 PR #22에만 있던 사용자 결정(XDM-CTR100과 XDM-CTR100 PSE를 별도 제품으로 분리해 28종, QMS-88UX 쿼드 뷰 출력 9·10번 사용법, 모델명 줄바꿈 방지)을 현재 main 기준으로 다시 옮기고 HD-13U 오디오 병합·추출을 선택 방식으로 정정해 07 오디오 설정 카드를 추가하고 모든 제품의 단자 지도 번호를 HDMI 입력 → 출력 → 오디오 → … → 전원(마지막) 순으로 통일한 것은 `0.47.0`, QMS-88UX 출력 9·10번 멀티뷰의 12가지 레이아웃·입력 그룹·출력 옵션을 사용자 제공 매뉴얼 20~23쪽 근거로 "주요 기능"에 적은 것은 `0.48.0`, HDS-21U·HDS-42MU 오디오 병합·추출을 딥 스위치 1번 선택 방식으로 정정하고 07 오디오 설정 카드를 추가하고 사용자 제공 매뉴얼 Ver.1.0으로 Priority·분배 기능 딥 스위치를 보완하고 제품 사진 팝업을 사용자 LED 계산기 "05 프로세서" 방식(사진 탭·원형 돋보기)으로 바꾼 것은 `0.49.0`, QMS-88UX "02 신호 흐름"에서 멀티뷰 출력 9·10번을 매트릭스 출력과 분리된 별도 갈래(패널·캡션)로 다시 그리고 "05 주요 기능" 멀티뷰 항목을 요약하고 오디오 출력 2개(QD1·QD2)가 선택 가능한 출력임을 반영한 것은 `0.50.0`, QMS-88UX "04 제품 사양"의 조건 칸(부설)을 모두 비우고 LAN(Telnet & Web Browser) 표기를 사양·기능·개요·단자 지도에서 모두 뺀 것은 `0.51.0`, HDS-42MU 크기를 사용자 결정에 따라 매뉴얼 값 232×65×30mm로 바꾸고 제품 상세의 "자료 출처·검토 기록"을 "제조사 자료"로 이름을 바꿔 화면의 출처 표시를 뺀 것은 `0.52.0`, QMS-88UX 오디오 QD1·QD2 설명 정리·"02 신호 흐름" 오디오 추출 점선과 멀티뷰 8입력분할 표현 정리·입출력 단자 표 정렬 통일(TX→구분 없음→RX, 영상→오디오→전송→제어, 입력→출력→양방향)·"제조사 자료"에서 표기 다름·참고 사항도 추가로 뺀 것과 조건 칸의 출처 문구를 지우고 "05 주요 기능"을 한 줄 요약으로 줄인 것(상세는 06·07 카드·사양·단자 지도로 이동)은 `0.53.0`, XDM-CTR100·CTR100 PSE "04 제품 사양"의 딥 스위치 행을 다시 삭제(딥 스위치는 05 주요 기능에서만 안내)하고 전 제품 "05 주요 기능"을 추가로 압축하고 매트릭스 COS/CIS/FIS/FOS 카드와 짝인 전송기 3종(XDM-CTR100·CTR100 PSE·FT101/FR101)에 RS-232+ 패스스루(AMX 등 통합 제어 신호를 매트릭스·전송기 너머로 전달) 안내를 추가하고 "02 신호 흐름"의 케이블 최대 전송거리 표기를 범례 "출력" 항목 오른쪽으로 옮긴 것은 `0.54.0`, 구성기 확인 창을 사이트 글래스 스타일 대화상자로 바꾸고 카드 팝업에 수량 채우기와 같은 방향 슬롯 이동(끌어 옮기기·팝업 이동)을 추가하고 XDM 세로 슬롯 카드를 180도 돌리고 2U 이상만 정면·후면 버튼(그보다 작으면 정면 사진과 포트 연결면을 함께 표시)으로 하고 구성기 작업 단계 표기를 한글로 바꾸고 Delete 키 카드 빼기와 XDM RS-232+(CIS·COS·FIS·FOS 카드와 짝 전송기) 표기를 더한 것은 `0.55.0`, 전 제품 "05 주요 기능" 카탈로그 어투 통일("~ 지원")·"01 한눈에 보기" 위 사진 띠 삭제·"02 신호 흐름"과 "03 단자 지도" 순서 교체 및 영문 표기(Signal Flow·Port Map)·화면 구성 모드 등 06 카드를 05 옆으로 배치·QMS-88UX 06 화면 구성 모드 레이아웃 12종 클릭 미리보기 추가·HDS-21U·HDS-42MU 단자 지도를 정면·후면 선택 버튼 없이 위아래 합성 사진 한 장(번호 1~7, EDID 로터리 6번·전원 7번)으로 바꾼 것은 `0.56.0`, 05 옆으로 옮긴 06 카드가 휴대폰에서 01보다 먼저 뜨던 순서 버그를 고치고(rt-pg-col-mobile-6 클래스 추가) 15개 제품 "05 주요 기능"의 "~할 수 있다." 표현 24곳을 명사형으로 정리한 것은 `0.57.0`, HDS-21U·HDS-42MU 단자 지도에 MODE 딥 스위치 번호(7번)를 추가하고 07 오디오 설정 카드를 딥 스위치 그림(번호별 OFF·ON) 카드인 07 딥 스위치 설정으로 바꾸고(1번 오디오 병합·추출, 2번 Priority, 42MU만 3번 분배) 04 제품 사양의 딥 스위치 행과 05 주요 기능의 긴 설명을 이 카드로 옮기고 매트릭스 제품(QMS-44UX·QMS-88UX·HDS-42MU) "03 Signal Flow"를 입력이 한 점으로 모이는 모양 대신 크로스포인트(출력마다 입력 선택 예시)로 다시 그리고 HDS-42MU 정면 사진의 잘못 인쇄된 실크(MODE·EDID)를 사진 안에서 서로 바꾼 것은 `0.58.0`, EDID 로터리 태그 잘림·06 EDID 카드 배치·긴 코드표 좌우 분할을 고치고 EDID 설정 카드에 기본값·자주 쓰는 코드를 파란 16단 로터리 그림(화살표가 코드를 가리킴)으로 보여주고 HDS-21U·HDS-42MU(3·9번)·FT103-U-H/FR103-U(3·6번)에 자주 쓰는 코드 강조를 더하고 EDID 코드표 세로 크기를 줄인 것은 `0.59.0`, 04 제품 사양 표 줄 간격을 약 15% 줄이고 03 Signal Flow에서 AUDIO OUT "추출" 표시가 잘리던 그림 너비 계산을 고친 것은 `0.60.0`, HD-13U 07 오디오 설정을 06 EDID 다음 전체 폭으로 옮겨 잘림·번호 뒤집힘을 고치고 EDID 대표 설정과 같은 칸 4개(MODE 로터리 0번 → SET 누름 → OUT 1 LED 깜빡임·깜빡이지 않음)를 넣고 HD-210U에 매뉴얼 Ver.1.2 근거 07 딥 스위치 설정 카드(1번 오디오 병합, 2번 DDC)를 추가한 것은 `0.61.0`, 딥 스위치 카드가 있는 HD-210U·HDS-21U·HDS-42MU의 05 주요 기능에서 스위치 번호 참조를 지우고 HD-210U(5줄)·HD-13U(3줄) 05 주요 기능을 기능 이름만 남겨 정리하고 HDS-21U·HDS-42MU 딥 스위치 칸을 ON → OFF 순서로 바꾼 것은 `0.62.0`, QMS-44UX·QMS-88UX "06 화면 구성 모드" 카드가 05 옆 좁은 칸에 들어가면서 모드 카드 설명·레이아웃 칩이 카드 밖으로 넘치던 문제를 edidSwitch와 같은 기준(항상 전체 폭 아래)으로 고친 것은 `0.63.0`, SPX-TX/RX 전송기를 29번째 제품으로 추가(매뉴얼 Ver.2.0: 사양·단자 지도·딥 스위치 조합)하고 XDM-FT101/FR101에 매뉴얼 Ver.1.3 근거 EDID·오디오 로터리 카드(전체 8칸 그림)를 넣고 SPX 안내·범례의 HDBaseT 표기를 CATx로 바로잡고 OBUX-1C에 매뉴얼 Ver.2.2 근거 Tx Mode 딥 스위치 카드(1번 오디오, 2·3·4번 EDID 조합)를 넣고 전 제품 05 주요 기능의 "~한다/~다." 문장을 "~ 지원"·명사형으로 통일한 것은 `0.64.0`, OBHD-2C에 매뉴얼 KV01 근거 06 EDID 설정(MODE 로터리 0~D 전체 14칸 그림·코드표)을 추가하고 XDM-CT103/CR103 04 제품 사양의 전원(어댑터) 중복 행(CT103·CR103 각각 있던 동일 값)을 공통 행 하나로 합친 것은 `0.65.0`, XDM-CTR100·XDM-CTR100 PSE에 매뉴얼 Ver.1.4 근거 06 딥 스위치 설정(1·2번 TX/RX 모드 조합, 3번 전송 거리)을 추가하고 두 제품이 별도 페이지로 나뉜 뒤에도 남아 있던 04 제품 사양의 "공통"·자기 모델명 반복 표기를 정리하고 04 사양 "지원 케이블"을 "권장 케이블"로 바꾸고 분배기 4종(HD-13U·HD-104U·HD-108U·HD-210U) 단자 지도를 앞면·뒷면 합성 사진 한 장으로 바꿔 정면 로터리(·SET·MODE)에도 번호를 붙인 것은 `0.66.0`, QMS-88UX 06 화면 구성 모드 QUAD 레이아웃 목록에 매뉴얼 22~23쪽 Output Option 2·3 근거로 "8분할(비율무시)"을 13번째 항목으로 추가하고 분배기 4종(HD-13U·HD-104U·HD-108U·HD-210U) 05 주요 기능에 다단 증폭(캐스케이드 연결) 최대 3단 지원을 추가한 것은 `0.67.0`, XDM-FT101/FR101 단자 지도에 정면 MODE 로터리·S/P 번호를 추가하고 HD-D102U 05 주요 기능을 명사형으로 전면 재작성하고 HDS-21U·HDS-42MU "Audio Extraction"과 HD-210U EDID "Nothing" 표기를 통일하고 HDS-21U 딥 스위치 3번(분배)이 매뉴얼에 없는 기능이었음을 사용자 제공 매뉴얼로 확인해 삭제한 것은 `0.68.0`, HDS-21U·HDS-42MU 06 EDID 설정 안내 문장에서 "10번=A, 11번=B"처럼 10진수를 다시 설명하던 괄호를 완전히 지운 것은 `0.69.0`, 구성기 "섀시"를 "프레임"으로 통일하고 카드 팝업에 수량·순서대로 장착 버튼을 넣고 02 프레임 선택에 "함께 보면 좋은 제품"을 추가하고 빈 슬롯 공패널색을 통일하고 OBHD-2C EDID 로터리 번호를 매뉴얼 Ver.2.1 기준으로 정정하고 HD-D102U "스마트 EDID" 문구를 알기 쉽게 풀어 쓰고 HD-13U·XDM-CTR100 PSE "인증: KC 인증" 행을 삭제하고 HD-D102U 04 사양표를 HD-13U와 같은 구성으로 정리한 것은 `0.70.0`, OBHD-2C 04 제품 사양의 크기·무게·HDMI 규격을 사용자 결정에 따라 매뉴얼 Ver.2.1 값(128×89×25mm·0.36kg·HDMI 1.3)으로 바꾼 것은 `0.71.0`, OBHD-2C·OBUX-1C 04 제품 사양의 입력단자·출력단자(HDMI(female) 등 표기) 행을 삭제하고 전 제품(16종)의 mm/kg 옆 인치·lbs 병기를 지운 것은 `0.72.0`, XDM-PSU 전원 장치를 반영해 BOM의 임시 "전원 공급 장비"를 XDM-PSU(16칸당 1대)·XDM-POH(CTR100 Tx 1대당 1개)·XDM-PHX(COS100 1장당 1개)로 나누고 XDM-PSU를 30번째 제품으로 추가하고, HDS-21U·OBUX-1C 송신기·수신기 고해상도 실물 사진을 반영하고, CT103-U-H/CR103-U 04 제품 사양을 요약 형태로 정리한 것은 `0.73.0`, QMS-44UX 전면·후면 사진을 사용자가 직접 촬영한 고화질 사진으로 바꾸고 03 단자 지도 좌표를 재보정하고 새 사진에서 확인된 DOWNLOAD(Mini-USB) 포트를 추가한 것은 `0.74.0`, HD-108U 전면·후면 사진을 제조사에서 입수한 고화질 사진으로 바꾸고 03 단자 지도와 06 EDID 설정 로터리 스위치 좌표를 재보정한 것은 `0.75.0`, HDS-42MU 전면·후면 사진을 고화질로 바꾸고 단자 지도·EDID 좌표를 재보정한 것은 `0.76.0`, HD-13U·SPX-M810 전면·후면 사진을 고해상도로 바꾸고 HD-13U 단자 지도·EDID 좌표와 SPX-M810 구성기 카드 슬롯 좌표를 재측정한 것은 `0.77.0`, 사용자가 제공한 HD-104U 고해상도 전면·후면 사진(긴 변 약 2000px)으로 기존 저해상도 이미지를 교체하고 단자 지도·EDID 로터리 스위치 좌표를 새 사진 기준으로 다시 측정한 것은 `0.78.0`, 제품 상세에 등록된 제조사 카탈로그·매뉴얼 PDF만 "제품 목록" 옆 버튼(새 탭 보기·내려받기)으로 보여 주는 구조를 추가한 것은 `0.79.0`, 매트릭스 카드 상세 정보 버튼과 XDM·SPX·VDM 카드 26종 사양을 등록한 것은 `0.80.0`, 로컬 작업 환경(`DEVICE_WORKFLOW.md`, `.gitattributes`, `.claude/settings.json`)과 `input_doc` 자료 자동 분류(`.claude/skills/input-doc`, `scripts/input_doc.py`)를 추가한 것은 `0.81.0`, 제조사 자료 입출력 단자 표에서 방향("입력"·"출력"·"입출력")·수량(숫자) 칸이 좁은 화면에서 줄바꿈되던 문제를 30개 제품 전수 조사로 찾아 고친 것은 `0.82.0`, 제목에 송신기·수신기가 들어간 제품 10종의 라벨을 색으로 구분한 것은 `0.83.0`, input_doc 첫 정리(매뉴얼 20권·사양서 1장)로 VDM HOS4-U 카드 사양을 등록하고 CIS4-U·COS4-U·QOS4S-U를 매뉴얼 KV07 값으로 보완하고 input_doc 반영 장부(`docs/evidence/input-doc-ledger.json`)와 파일별 반영 표시(`input_doc/STATUS.md`)를 추가하고 검증된 PR의 병합·배포를 Claude가 이어서 하도록 규칙을 바꾼 것은 `0.84.0`, 카탈로그·매뉴얼 충돌 정리(`docs/audit/CATALOG_MANUAL_CONFLICTS_2026-09-28.md`) 결정대로 VDM -U 카드에 매뉴얼 해상도 행·SOS4 오디오 포트를 더하고 QMS-88UX 멀티뷰에 8분할(16:9 비율)을 추가한 것은 `0.85.0`, 카탈로그·매뉴얼 충돌 항목을 사용자 결정("새로준 자료 기준으로")에 따라 매뉴얼 값으로 통일한 것(HD-104U 전원 1A, XDM 전송기 3840x2160, VDM 광 카드 10km·-U 카드 4096×2160·HOS4S-UW 1920×1080)은 `0.86.0`, RT컴 제공 고해상도 실물 사진으로 XDM-CTR100·XDM-FT101·XDM-FR101·XDM-CT103 제품 사진·목록 카드·구성기 04 전송기 썸네일을 교체하고 CTR100·FT101·CT103 단자 지도를 새 사진으로 다시 합성하고 XDM-FR101 수신기 뒷면 단자 지도를 추가한 것은 `0.87.0`, 사용자 결정("1번")으로 input_doc 매뉴얼 17개를 공개 폴더에 올려 16개 제품 상세에 매뉴얼 PDF 버튼을 켠 것은 `0.88.0`, 사용자 확인("ctr100과 pse는 단자는 동일해")에 따라 XDM-CTR100·XDM-CTR100 PSE 단자 지도를 같은 합성 사진(앞면 PSE 제품 안내서 사진 + 뒷면 RT컴 CTR100 사진)으로 바꾼 것은 `0.89.0`, QMS-88UX 06 화면 구성 모드의 DUAL 카드("듀얼 모드" 한 마디뿐)를 매뉴얼 KV.04 20~21쪽 근거로 출력 9·10번 멀티뷰 설정의 2분할(PBP)·PIP 레이아웃 3종으로 채운 것은 `0.90.0`, XDM-CTR100 PSE 정면 사진을 사용자가 재확인("1번 맞아"·"적용시켜줘")한 원본 PNG에서 정확한 픽셀 경계로 다시 잘라 646×396으로 다시 저장한 것은 `0.91.0`, SPX-TX/SPX-RX 단자 지도 사진의 검은 배경을 흰색으로 바꾸고(사용자 요청) 전송기 6개 제품 사양의 ft(피트) 표기를 일괄 삭제한 것은 `0.92.0`, 전송기 9종 04 제품 사양 조건 칸의 "모델A·모델B 공통" 표기 55곳을 일괄 삭제하고 XDM-PSU에 "03 Signal Flow"(POH 입력 경로·PHX 출력 경로, 주황 전원 선) 그림을 추가한 것은 `0.93.0`, XDM-CTR100·XDM-CTR100 PSE 04 제품 사양의 최대 전송거리 3행을 1행으로 합치고 권장 케이블 행을 지우고 PSE 목록 썸네일을 정면 사진으로 바꾼 것은 `0.94.0`, 전체 카탈로그 46쪽판을 공용 파일(`rtcom-catalog-2026.pdf`) 하나로 공개해 29개 제품 상세의 카탈로그 PDF 버튼이 제품 쪽(`#page=N`)에서 열리고 제품 목록에 전체 카탈로그 버튼을 둔 것(사용자 결정 2026-09-28 "전체 카탈로그 공개해도 돼")은 `0.95.0`, QMS-88UX 06 화면 구성 모드의 QUAD·DUAL 설명 문장을 짧게 줄이고 매뉴얼 쪽 번호를 화면에 안 보이는 `page` 항목으로 옮기고 QMS-44UX QUAD 설명도 두 줄로 나눠 줄인 것(사용자 요청 "QMS-44, 88 모두 글이 너무 많아 좀 더 요약해줘")은 `0.96.0`, 전체 카탈로그 46쪽판에서 제품마다 해당 쪽만 뽑은 제품별 카탈로그 PDF 29개(`<제품id>-catalog.pdf`, XDM은 전송기 쪽을 뺀 4~9쪽, SPX-TX/RX는 16쪽)를 만들어 제품 상세 카탈로그 버튼에 연결한 것(사용자 결정 2026-09-28 "제품별로 잘라 공개")은 `0.97.0`, XDM-PSU "03 Signal Flow"를 제조사 연결도처럼 매트릭스 프레임(CIS100·COS100)·XDM-PSU(POH·PHX)·XDM-CTR100 Tx/Rx 장비 그림으로 다시 그리고 케이블을 따라 신호·전원이 흐르는 애니메이션을 넣은 것(사용자 요청 2026-09-28)은 `0.98.0`, 그 그림의 XDM-COS100을 포트마다 RJ45+피닉스 5핀으로 고쳐 PHX 2핀 전원선이 1번 포트 피닉스 단자에 꽂히게 하고(사용자 확인 "COS PHNIX픽에 전원연결") XDM-PSU Signal Flow에만 "크게 보기" 확대 창(100~300%)을 넣은 것은 `0.99.0`, QMS-88UX "8분할(16:9 비율)" 미리보기가 매뉴얼(KV.04 23쪽)처럼 위·아래 여백을 짙은 막대로 보여주게 고친 것(사용자 지적 "8분할시 비율유지는 안되는거 같은")은 `0.100.0`, 구성기 카드 팝업 "카드별 수량" 스테퍼가 다 채운 뒤 사라지던 버그를 고친 것은 `0.101.0`, OBHD-2C 단자 지도 사진 3장의 검은 배경을 흰색으로 바꾼 것(사용자 요청 2026-09-28 "OBHD-2C 이미지 너가 블랙을 뺄수 있을까?")은 `0.102.0`으로 기록했습니다. 다음 기능 묶음은 `0.103.0`을 목표로 하며, 실제 병합 전에는 검증된 canonical main commit을 확인합니다.
 - 모든 작업은 구현 문서, QA 문서 또는 감사 문서에 근거와 결과를 남깁니다.
 
 ## 로컬 작업과 input_doc

diff --git a/CHANGELOG.md b/CHANGELOG.md
@@ -20,6 +20,14 @@
 
 - **0.90.0 배포 기록**: `docs/qa/DEPLOYMENT_0.90_2026-09-28.md`(PR #85 → main 병합, 배포 run 64, 공개 파일 242/242 일치, 비공개 파일 6개 404)
 
+## 0.102.0
+
+- **OBHD-2C 단자 지도 사진 검은 배경 제거**(사용자 요청 2026-09-28 "OBHD-2C 이미지 너가 블랙을 뺄수 있을까?"): 송신기 앞면(`obhd-2c-tx-front.webp`)과 송신기·수신기 앞면/뒷면 합성 사진(`obhd-2c-tx-front-rear.webp`·`obhd-2c-rx-front-rear.webp`)의 검은 배경을 흰색으로 바꿨습니다. 사진 가장자리에서 이어진 순수 검정(밝기 10 이하)만 채우고, 붙은 1px 가장자리는 밝기에 따라 흰색과 섞어 검은 테두리 잔상을 없앴습니다. 제품 몸체(밝기 20 이상)는 그대로이고 사진 크기가 같아 단자 지도 번호 위치는 바뀌지 않습니다. 원본 매뉴얼 사진에 있던 실크 글자 결손(수신기 "AU▯IO", 송신기 "PW▯R"·"E▯I▯")은 이번 작업과 무관하게 원래 사진에 있습니다. 근거: `docs/qa/OBHD2C_WHITE_BG_QA_2026-09-28.md`.
+
+## 0.101.0
+
+- **카드 팝업 "카드별 수량" UI가 다 채운 뒤 사라지는 버그 수정**(사용자 지적 "입카드선택시 수량을 넣을 수 있는데 다시 조정하려고 누르면 수량이 안보이고 장착됨이 보이는데 이부분 수정해", "출력카드 선택시는 수량선택이 안되는 버그가 있어"): 카드 팝업의 "카드별 수량" 스테퍼·"순서대로 장착" 버튼은 이 슬롯부터 이어 채울 수 있는 **빈** 슬롯 수(qtyMax)가 1보다 클 때만 보였습니다. 그런데 같은 방향 슬롯을 전부 채운 뒤에는 어느 슬롯을 다시 열어도 이어 채울 빈 슬롯이 0개라 qtyMax가 항상 1이 되어, 입력·출력 가리지 않고 수량 UI가 통째로 사라지고 "선택"/"장착됨" 버튼만 남았습니다(XDM-12처럼 슬롯이 적어 빨리 다 채워지는 프레임에서 두드러짐). 노출 여부를 이 방향의 전체 슬롯 수(sameDirTotal, 채워졌는지 무관)로 판단하도록 바꾸고, 실제로 채울 수 있는 칸 수 제한(qtyMax)은 그대로 두어 다른 슬롯의 카드를 덮어쓰지 않습니다. 슬롯이 정말 1개뿐인 방향(SPX-M810 등)은 그대로 수량 UI가 나오지 않습니다. 근거: `docs/qa/CARD_QTY_UI_BUG_2026-09-28.md`.
+
 ## 0.100.0
 
 - **QMS-88UX "8분할(16:9 비율)" 미리보기에 레터박스 표시 추가**(사용자 지적 "8분할시 비율유지는 안되는거 같은 메뉴얼 확인해서 수정해"): 매뉴얼 KV.04 23쪽 Output Option 5·6 예시를 다시 확인해 보니 16:9를 유지하는 8분할은 실제로 위·아래(옵션 5)나 좌·우(옵션 6)에 짙은 여백을 두는 방식이었습니다. 기존 그림도 이 여백만큼 칸을 캔버스 중앙에 배치하고 있었지만, 여백 색이 배경과 거의 같아 눈으로 구분되지 않았습니다. 이제 칸이 캔버스를 다 채우지 못하는 레이아웃은 남는 자리를 매뉴얼처럼 짙은 막대로 채워, 8분할(비율무시)와 눈으로 구분됩니다. 이 그림을 공유하는 다른 레이아웃(QUAD·PBP·PIP 등)은 캔버스를 이미 다 채우고 있어 영향이 없습니다.
@@ -44,10 +52,6 @@
 ## 0.95.0
 
 - **전체 카탈로그 공유**(사용자 요청 "카다로그도 일괄 공유할 수 있게해줘", 결정 "전체 카탈로그 공개해도 돼"): 알티컴 종합 카탈로그 2026 46쪽판을 공용 파일 `output/design/assets/docs/rtcom-catalog-2026.pdf` 하나로 공개했습니다(이미 공개 저장소에 있던 `docs/RTcom_catalogue_2026_46p.pdf`와 같은 파일). 카탈로그 쪽이 있는 29개 제품의 상세 화면 "카탈로그 PDF" 버튼은 새 탭에서 제품 쪽(`#page=N`, 예: HD-13U 34쪽)으로 열리고, ⤓는 전체 파일을 내려받습니다. 제품 목록 화면에는 링크 하나로 공유할 수 있는 "전체 카탈로그 PDF" 버튼을 두었습니다. XDM-PSU는 카탈로그 쪽이 없어 버튼이 없습니다. 검증 규칙에 공용 문서 예외(Catalog에만, `page` 1~46)를 더했습니다. 근거: `docs/qa/CATALOG_SHARE_QA_2026-09-28.md`.
-
-## 0.101.0
-
-- **카드 팝업 "카드별 수량" UI가 다 채운 뒤 사라지는 버그 수정**(사용자 지적 "입카드선택시 수량을 넣을 수 있는데 다시 조정하려고 누르면 수량이 안보이고 장착됨이 보이는데 이부분 수정해", "출력카드 선택시는 수량선택이 안되는 버그가 있어"): 카드 팝업의 "카드별 수량" 스테퍼·"순서대로 장착" 버튼은 이 슬롯부터 이어 채울 수 있는 **빈** 슬롯 수(qtyMax)가 1보다 클 때만 보였습니다. 그런데 같은 방향 슬롯을 전부 채운 뒤에는 어느 슬롯을 다시 열어도 이어 채울 빈 슬롯이 0개라 qtyMax가 항상 1이 되어, 입력·출력 가리지 않고 수량 UI가 통째로 사라지고 "선택"/"장착됨" 버튼만 남았습니다(XDM-12처럼 슬롯이 적어 빨리 다 채워지는 프레임에서 두드러짐). 노출 여부를 이 방향의 전체 슬롯 수(sameDirTotal, 채워졌는지 무관)로 판단하도록 바꾸고, 실제로 채울 수 있는 칸 수 제한(qtyMax)은 그대로 두어 다른 슬롯의 카드를 덮어쓰지 않습니다. 슬롯이 정말 1개뿐인 방향(SPX-M810 등)은 그대로 수량 UI가 나오지 않습니다. 근거: `docs/qa/CARD_QTY_UI_BUG_2026-09-28.md`.
 
 ## 0.94.0
 

diff --git a/docs/qa/OBHD2C_WHITE_BG_QA_2026-09-28.md b/docs/qa/OBHD2C_WHITE_BG_QA_2026-09-28.md
@@ -1,0 +1,34 @@
+# OBHD-2C 단자 지도 사진 검은 배경 제거 QA (0.102.0, 2026-09-28)
+
+## 요청
+
+- 사용자 요청: "OBHD-2C 이미지 너가 블랙을 뺄수 있을까?" (제품 상세 02 PORT MAP 캡처 첨부)
+- 0.92.0의 SPX-TX/RX 사진 검은 배경 제거와 같은 방식입니다.
+
+## 대상
+
+| 파일 | 크기 | 가장자리 검정 비율(작업 전) | 흰색으로 바꾼 면적 |
+|---|---|---|---|
+| `obhd-2c-tx-front.webp` | 829×229 | 100% | 34.4% |
+| `obhd-2c-tx-front-rear.webp` | 829×500 | 79% | 26.9% |
+| `obhd-2c-rx-front-rear.webp` | 794×465 | 95% | 22.3% |
+
+`obhd-2c-main.webp`·`obhd-2c-perspective.webp`는 이미 흰 배경이라 손대지 않았습니다.
+
+## 방법
+
+- 밝기 분포를 먼저 확인했습니다. 배경은 순수 검정(0~3)이고 제품 몸체는 대부분 20 이상이라 둘 사이에 틈이 있습니다.
+- 사진 가장자리에서 시작해, 이어진 픽셀 중 밝기(RGB 최댓값)가 10 이하인 곳만 흰색으로 채웠습니다(연결 영역 채우기).
+- 채운 영역에 붙은 1px 가장자리 중 밝기 24 미만인 픽셀은 밝기에 따라 흰색과 섞어, 검은 테두리 잔상이 남지 않게 했습니다.
+- 픽셀은 밝아지기만 하고 어두워지지 않습니다. 사진 크기가 같아서 `portMap` 번호 좌표는 그대로입니다.
+- WebP 품질 90으로 저장했습니다.
+
+## 확인
+
+- 화면: `docs/qa/obhd-2c-white-screens/portmap-1280.png`, `portmap-390.png`. 송신기·수신기 모두 흰 배경이고, 번호 1~6이 제자리를 가리킵니다.
+- 원본 대조: 수신기 "AU▯IO", 송신기 "PW▯R"·"E▯I▯"의 실크 글자 결손은 작업 전 원본 사진에도 똑같이 있습니다. 원래 매뉴얼 사진의 결손입니다.
+- 기본 검증 결과는 PR 설명에 적었습니다.
+
+## 되돌리기
+
+병합 커밋을 revert하면 원래 검은 배경 사진으로 돌아갑니다.

diff --git a/README.md b/README.md
@@ -1,6 +1,6 @@
 # RTCOM Matrix Configurator
 
-**현재 버전: 0.101** · XDM·SPX·VDM 매트릭스의 프레임과 카드 슬롯을 구성하는 도구(Analog Way 구조 + LED 글래스 스킨 + 블랭크 커버, 04 전송기도 좌우 분할)와 알티컴 공개 제품정보(30종, 글래스 디자인·연결 다이어그램)를 제공합니다.
+**현재 버전: 0.102** · XDM·SPX·VDM 매트릭스의 프레임과 카드 슬롯을 구성하는 도구(Analog Way 구조 + LED 글래스 스킨 + 블랭크 커버, 04 전송기도 좌우 분할)와 알티컴 공개 제품정보(30종, 글래스 디자인·연결 다이어그램)를 제공합니다.
 
 프레임을 고르고 실제 슬롯 위치에 입력·출력 카드를 장착한 뒤, 전송기와 BOM을 검토하고 JSON·CSV·인쇄 보고서로 내보냅니다. 0.19부터 알티컴 브로셔 수준 제품정보의 원본은 이 저장소(`data/products/`)이며, 머리글의 "알티컴 제품정보" 탭에서 봅니다. 비공개 AV Portal은 이 공개 데이터를 읽기만 합니다([인계 문서](docs/handoff/AV_PORTAL_RTCOM_PRODUCT_DATA.md)). 실제 슬롯·설치 허용표와 전원·케이블 조건은 확정 전이며, 모든 내보내기는 `UNVERIFIED_DRAFT`로 표시합니다.
 
